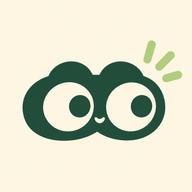
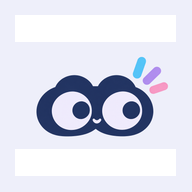
Use transparent indigo Buddy and archive matcha branding

diff --git a/next-app/components/brand-mark.tsx b/next-app/components/brand-mark.tsx
@@ -1,3 +1,3 @@
 export default function BrandMark() {
-  return <img src={`${process.env.NEXT_PUBLIC_BASE_PATH || ""}/brand/lookout-mark.png`} width={32} height={32} alt="" aria-hidden="true" className="shrink-0 rounded-lg" />;
+  return <img src={`${process.env.NEXT_PUBLIC_BASE_PATH || ""}/brand/lookout-mark.png`} width={48} height={32} alt="" aria-hidden="true" className="shrink-0" />;
 }

diff --git a/changes/lookout-logo-ZkQjys.md b/changes/lookout-logo-ZkQjys.md
@@ -13,3 +13,11 @@
 - Replaced browser and installed-app icons with PNG derivatives, including Apple touch and a padded maskable icon. Removed the superseded SVG artwork and its public-copy entry. Updated install surface colors to cream and forest green.
 - Validation: data validation (158 roles), frontend typecheck and production static build. All 563 tests passed. Verified exported manifest PNG sizes and browser/Apple icon paths. Visually verified shared Buddy branding in the signed-out header and detached demo. Design detector: clean.
 - Limits: actual device installation and refresh of previously installed icons are unverified. No new service actions or MCP boundaries.
+
+## Indigo Buddy follow-up
+
+- Activated the approved indigo/lavender ImageGen Buddy with pastel rainbow rays. Website and demo headers now show the transparent mark directly, without the cream tile or rounded clipping.
+- Archived the previous matcha master and approved style sheet under explicit matcha filenames in assets/brand/; retained original reference files.
+- Regenerated the transparent favicon, pale-lavender installed-app/Apple icons and padded maskable icon. Updated install colors to match.
+- Validation: data validation (158 roles), frontend typecheck, production static build, clean design detector, exported icon-size/RGBA checks and byte-identical archived matcha master check passed. Visually inspected signed-out and detached demo headers. Full tests were not rerun for this artwork-only follow-up; the preceding pass had all 563 passing. No service behavior or MCP contracts changed.
+- Limits: actual device installation and existing icon-cache refresh are unverified.

diff --git a/next-app/assets/brand/README.md b/next-app/assets/brand/README.md
@@ -7,9 +7,13 @@ Brand guidance: https://developers.google.com/identity/branding-guidelines.
 
 # Lookout Buddy assets
 
-Approved original artwork and style sheet are preserved in root assets/brand/.
-The generated app icons and website mark use that exact master artwork, with
-forest green, matcha accents, cream lenses and simple circular pupils.
-PNG sizes: 32px favicon, 128px website mark, 180px Apple touch, 192/512px app.
-The maskable 512px variant adds cream padding to protect the discovery rays.
-Regenerate with the installed Sharp package; preserve the approved source image.
+Active original artwork: root assets/brand/lookout-buddy-master.png.
+The active indigo/lavender Buddy has transparent outer pixels and pastel rainbow rays.
+Website headers use the transparent 192x128 mark at 48x32, without a tile.
+Browser favicon retains transparency. Installed app icons use a pale lavender
+square background; the maskable variant has extra safe-area padding.
+
+Archived matcha logo: assets/brand/lookout-buddy-matcha-master.png at repo root.
+Archived approved style sheet: assets/brand/lookout-buddy-matcha-style-sheet.png.
+The original lookout-buddy-style-sheet.png is also retained as a character reference.
+PNG derivatives are generated with the installed Sharp package.
